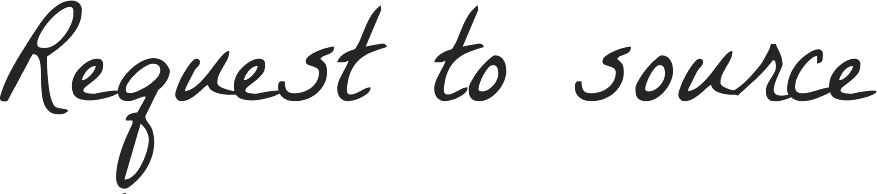
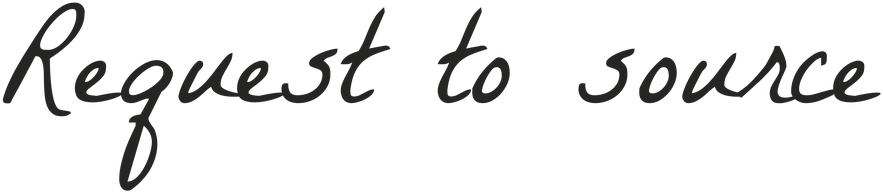
Envelope for Sell and Trade, burgundy seal, script clear of the line
Henry's notes: move the script up so it's not about to touch the line
below; same thing for Sell and Trade with their info; burgundy seal on
those, like the new iPhone colour.

- The script's font turned out to be on his Mac: La Belle Aurore, SIL Open
  Font License. All three lines are now set from it at one size and
  baseline, so "sell" and "trade" are real, not pieced together.
- Script sits 18 artboard units higher. Everything else still matches.
- Sell and Trade open the same envelope and card with their own title,
  sub line, WhatsApp text and Instagram DM option. Same fields as before.
- Their leads are byte-identical to their popups, and each falls back to
  its popup if the envelope can't load.
- Seal recoloured from the black one, so its embossing stays real. Apple
  publishes no hex for Burgundy, so it's matched by eye to their "deep
  wine-red with purple and brown undertones". Concierge stays black.

diff --git a/assets/envelope.js b/assets/envelope.js
@@ -1,4 +1,5 @@
-/* Concierge envelope. dbhEnvelope.open(prefill, {onClose}) plays it over the current page and lands
+/* Request envelope, used by Concierge, Sell and Trade. Each has its own script line, wording and seal
+   (KINDS below), with everything else shared. dbhEnvelope.open(prefill, {kind, onClose}) plays it over the current page and lands
    on the working card, about 1.75 seconds from start to finish. People tap this to send a request,
    so the animation must never feel like a wait: timing changes go in the constants below. The
    opening runs off one number, the flap's angle, and the light and shadows are worked out from it.
@@ -8,22 +9,29 @@
    lead looks the same to the server either way. To change the card's design, edit cardHtml() here
    and the CARD section of envelope.css. Field names must stay as they are. */
 (function () {
-  var B = '/assets/envelope/', FILES = ['body.webp', 'body-front.webp', 'lip.webp', 'flap-outside.webp', 'flap-inside.webp', 'seal.webp', 'request-to-source.webp', 'wordmark.svg'];
+  var B = '/assets/envelope/', FILES = ['body.webp', 'body-front.webp', 'lip.webp', 'flap-outside.webp', 'flap-inside.webp', 'wordmark.svg'];
+  // The script is La Belle Aurore, set as images by make-card-art.py. hw is its width on the card's artboard.
+  var KINDS = {
+    source: { seal: 'seal.webp', hand: 'request-to-source.webp', w: 883, track: 'BUY' },
+    sell: { seal: 'seal-burgundy.webp', hand: 'request-to-sell.webp', w: 753, track: 'SELL' },
+    trade: { seal: 'seal-burgundy.webp', hand: 'request-to-trade.webp', w: 828, track: 'TRADE' }
+  };
   var OPEN_AT = 310, OPEN_FOR = 840, END_ANGLE = 177, DRIFT = 148;
   var RISE_AT = 840, RISE_FOR = 620, GROW_AT = 1085, GROW_FOR = 665, FALL_AT = 1000, FALL_FOR = 600, END = GROW_AT + GROW_FOR;
   var SEAT_W = 494, SEAT_TOP = 8, SEAT_H = 350; // the card in the pocket, in artwork units. It really fits inside.
   var WIDE = '(min-width:820px) and (min-height:640px)'; // same as the media query in envelope.css
   // Light from above and in front of the page, as (down the screen, towards the viewer).
   var LIGHT_Y = -0.45, LIGHT_Z = 0.89;
-  var root, card, form, lastFocus, testClose, optsClose, pace = 1, running = [], landed = false, skipGuard = false, sent = true, lastKey = null, decoded;
+  var root, card, form, lastFocus, testClose, optsClose, pace = 1, running = [], landed = false, skipGuard = false, sent = true, lastKey = null, kind = 'source', decoded = {};
 
-  function preload() {
-    if (decoded) return decoded;
-    decoded = Promise.all(FILES.map(function (f) {
+  function preload(k) {
+    k = KINDS[k] ? k : 'source';
+    if (decoded[k]) return decoded[k];
+    decoded[k] = Promise.all(FILES.concat(KINDS[k].seal, KINDS[k].hand).map(function (f) {
       var i = new Image(); i.src = B + f;
       return i.decode ? i.decode().catch(function () {}) : Promise.resolve();
     }));
-    return decoded;
+    return decoded[k];
   }
 
   function flapShut() {
@@ -77,18 +85,19 @@
     return '<label class="ec__f ec__f--half"><span class="ec__l">' + label + '</span><select name="' + name + '" aria-label="' + label + '"' + (cls ? ' class="' + cls + '"' : '') + ' ' + (attrs || '') + '>' + options + '</select></label>';
   }
   function cardHtml(M, prefill) {
+    var K = KINDS[kind], cfg = M.FORMS[kind];
     // On a phone the model menu shares a row with the brand, so its hint has to be the short one.
     var modelHint = !matchMedia(WIDE).matches && matchMedia('(min-width:385px)').matches ? 'Model' : 'Model (select brand first)';
     return '<div class="ec__shadow"></div><div class="ec__in">' +
       '<img class="ec__mark" src="' + B + 'wordmark.svg" alt="Dialed by H" width="730" height="52">' +
       '<div class="ec__body">' +
-      '<h2 class="ec__title"><img class="ec__hand" src="' + B + 'request-to-source.webp" alt="Request to source" width="877" height="194"></h2>' +
-      '<p class="ec__sub">Tell me the piece. I\'ll text you back, usually within a few hours.</p>' +
+      '<h2 class="ec__title"><img class="ec__hand" style="--hw:' + (K.w / 2) + '" src="' + B + K.hand + '" alt="' + cfg.title + '" width="' + K.w + '" height="194"></h2>' +
+      '<p class="ec__sub">' + cfg.sub + '</p>' +
       '<form class="ec__form" novalidate><div class="ec__grid">' +
         field('name', 'Full name', 'Full name', 'type="text" required autocomplete="name"') +
         field('email', 'Email', 'Email', 'type="email" required autocomplete="email" inputmode="email"') +
         field('phone', 'Mobile phone', 'Mobile phone', 'type="tel" required autocomplete="tel" inputmode="tel"', 'ec__f--half') +
-        menu('preferred', 'Preferred contact', '', '<option value="">Preferred contact</option><option>WhatsApp</option><option>iMessage</option><option>Email</option>', 'required') +
+        menu('preferred', 'Preferred contact', '', '<option value="">Preferred contact</option><option>WhatsApp</option><option>iMessage</option><option>Email</option>' + (kind === 'source' ? '' : '<option>Instagram DM</option>'), 'required') +
         field('location', 'Where are you based?', 'Where are you based? (city / state)', 'type="text" required autocomplete="address-level2"') +
         menu('brand', 'Brand', 'js-brand', '<option value="">Brand</option>' + M.brandOptions(), 'required') +
         menu('model', 'Model', 'js-model', '<option value="">' + modelHint + '</option>', 'disabled data-empty="' + modelHint + '" data-ready="Model"') +
@@ -98,7 +107,7 @@
       '<label class="ec__check"><input type="checkbox" name="textok"><span>OK to text me about this request</span></label>' +
       '<input type="text" name="website" class="ec__hp" tabindex="-1" autocomplete="off" aria-hidden="true">' +
       '<button type="submit" class="ec__send">Send</button>' +
-      '<p class="ec__wa">Or message me on <a href="' + M.waHref(prefill) + '" target="_blank" rel="noopener">WhatsApp</a></p>' +
+      '<p class="ec__wa">Or message me on <a href="' + M.waHref(prefill, kind) + '" target="_blank" rel="noopener">WhatsApp</a></p>' +
       '<p class="ec__err js-err" role="alert">Please fill in your name, email, phone, preferred contact, location and brand.</p>' +
       '</form></div></div>' +
       '<button type="button" class="env__close" aria-label="Close"><svg viewBox="0 0 13 13" fill="none" stroke="currentColor" stroke-width="1" aria-hidden="true"><path d="M1 1l11 11M12 1L1 12"/></svg></button>';
@@ -124,13 +133,13 @@
       '<a class="ec__send" href="' + M.instagram + '" target="_blank" rel="noopener">Follow @dialedbyh</a></div>';
   }
   function ensureCard(prefill) {
-    var M = window.DBHModals, key = JSON.stringify(prefill || {});
+    var M = window.DBHModals, key = kind + JSON.stringify(prefill || {});
     if (card && !sent && key === lastKey) return; // closing and reopening keeps what they've typed
     var scroll = root.querySelector('.env__scroll');
     scroll.innerHTML = '<article class="ec">' + cardHtml(M, prefill) + '</article>';
     card = scroll.firstChild; form = card.querySelector('form'); sent = false; lastKey = key;
     placeLocation();
-    M.wireForm(form, 'source', M.FORMS.source, prefill, function () { showSent(M); card.querySelector('.ec__in').scrollTop = 0; }, close);
+    M.wireForm(form, kind, M.FORMS[kind], prefill, function () { showSent(M); card.querySelector('.ec__in').scrollTop = 0; }, close);
     var refresh = function () {
       syncLabels();
       [].forEach.call(form.querySelectorAll('.is-missing'), function (f) { var c = f.querySelector('input,select'); if (c && c.value) f.classList.remove('is-missing'); });
@@ -142,7 +151,7 @@
       [].forEach.call(form.querySelectorAll('[required]'), function (c) { if (!c.value.trim()) c.closest('.ec__f').classList.add('is-missing'); });
     });
     syncLabels();
-    if (window.dbhTracking) window.dbhTracking.open(form, 'BUY');
+    if (window.dbhTracking) window.dbhTracking.open(form, KINDS[kind].track);
   }
 
   // Timing curves.
@@ -261,9 +270,12 @@
     if (root && !root.hidden) return Promise.resolve();
     root = root || build();
     optsClose = opts && opts.onClose;
+    kind = opts && KINDS[opts.kind] ? opts.kind : 'source';
+    root.setAttribute('aria-label', window.DBHModals.FORMS[kind].title);
+    [].forEach.call(root.querySelectorAll('.env__seal,.env__seal-back'), function (s) { s.src = B + KINDS[kind].seal; });
     lastFocus = document.activeElement;
     // On a slow connection don't make anyone wait or watch half an envelope: go straight to the form.
-    return Promise.race([preload().then(function () { return true; }), new Promise(function (r) { setTimeout(r, 450, false); })]).then(function (ready) {
+    return Promise.race([preload(kind).then(function () { return true; }), new Promise(function (r) { setTimeout(r, 450, false); })]).then(function (ready) {
       var still = !ready || matchMedia('(prefers-reduced-motion: reduce)').matches;
       ensureCard(prefill);
       root.style.setProperty('--pace', pace);

diff --git a/assets/modals.js b/assets/modals.js
@@ -5,8 +5,9 @@
    on the page's own stylesheet.
    Submits to /api/submit-form; if that fails, falls back to a prefilled
    WhatsApp message so no request is ever lost.
-   Concierge (source) opens the envelope in assets/envelope.js, which loads on
-   demand and uses the same wireForm. If it can't load, the popup opens instead. */
+   Concierge, Sell and Trade open the envelope in assets/envelope.js, which
+   loads on demand and uses the same wireForm. If it can't load, the popup opens
+   instead. */
 (function () {
   var WA = 'https://wa.me/19146211848';
   var IG = 'https://www.instagram.com/dialedbyh';
@@ -171,10 +172,13 @@
     select.value = value;
   }
 
-  function waHref(prefill) {
+  function waHref(prefill, kind) {
     var piece = prefill && [prefill.brand, prefill.model].filter(Boolean).join(' ');
     if (piece && prefill.ref) piece += ' (Ref. ' + prefill.ref + ')';
-    var text = piece ? "Hi Henry, I'm interested in the " + piece + '.' : "Hi Henry, I'm looking to source a watch.";
+    var verb = kind === 'sell' || kind === 'trade' ? kind : '';
+    var text = piece
+      ? (verb ? "Hi Henry, I'd like to " + verb + ' my ' + piece + '.' : "Hi Henry, I'm interested in the " + piece + '.')
+      : "Hi Henry, I'm looking to " + (verb || 'source') + ' a watch.';
     return WA + '?text=' + encodeURIComponent(text);
   }
   function brandOptions() {
@@ -281,12 +285,12 @@
   }
 
   function open(kind, prefill) {
-    if (kind !== 'source') return popup(kind, prefill);
+    if (!FORMS[kind]) return popup(kind, prefill);
     close();
     return loadEnvelope().then(function () {
-      setUrl('source');
-      return window.dbhEnvelope.open(prefill, { onClose: restoreUrl });
-    }).catch(function () { restoreUrl(); popup('source', prefill); });
+      setUrl(kind);
+      return window.dbhEnvelope.open(prefill, { kind: kind, onClose: restoreUrl });
+    }).catch(function () { restoreUrl(); popup(kind, prefill); });
   }
 
   function popup(kind, prefill) {
@@ -367,21 +371,23 @@
 
   // Get the envelope ready before anyone taps, so it opens without a wait: once the page has finished
   // and gone quiet, or the moment someone reaches for a Concierge link, whichever comes first.
-  var readied = false;
-  function ready() {
-    if (readied) return;
-    readied = true;
-    loadEnvelope().then(function () { window.dbhEnvelope.preload(); }).catch(function () {});
+  var readied = {};
+  function ready(kind) {
+    if (readied[kind]) return;
+    readied[kind] = true;
+    loadEnvelope().then(function () { window.dbhEnvelope.preload(kind); }).catch(function () {});
   }
   ['pointerover', 'touchstart', 'focusin'].forEach(function (ev) {
     document.addEventListener(ev, function (e) {
-      if (e.target.closest && e.target.closest('[data-modal="source"]')) ready();
+      var t = e.target.closest && e.target.closest('[data-modal]');
+      if (t && FORMS[t.dataset.modal]) ready(t.dataset.modal);
     }, { passive: true });
   });
   addEventListener('load', function () {
     var net = navigator.connection;
     if (net && (net.saveData || /2g/.test(net.effectiveType || ''))) return;
-    if (window.requestIdleCallback) requestIdleCallback(ready, { timeout: 4000 }); else setTimeout(ready, 1500);
+    var soon = function () { ready('source'); };
+    if (window.requestIdleCallback) requestIdleCallback(soon, { timeout: 4000 }); else setTimeout(soon, 1500);
   });
 
   // Own URL for each form: /source, /sell and /trade load the homepage with that

diff --git a/assets/envelope.css b/assets/envelope.css
@@ -102,8 +102,8 @@
 .env__close:focus-visible{outline:1px solid currentColor;outline-offset:-8px}
 .ec__mark{display:block;width:76%;height:auto;margin:0 auto}
 .ec__title{margin:calc(var(--gap)*.7) 0 0;font-weight:400;font-size:0;line-height:0}
-.ec__hand{display:block;width:58%;height:auto;margin:0 auto}
-.ec__sub{margin:2px auto 0;max-width:30ch;font-family:var(--works);font-weight:400;font-size:16px;line-height:1.22;letter-spacing:0;text-align:center;text-wrap:balance}
+.ec__hand{display:block;width:calc(58%*var(--hw)/442);height:auto;margin:0 auto}
+.ec__sub{margin:8px auto 0;max-width:30ch;font-family:var(--works);font-weight:400;font-size:16px;line-height:1.22;letter-spacing:0;text-align:center;text-wrap:balance}
 .ec__form{margin:calc(var(--gap)*.4) 0 0}
 .ec__grid{display:grid;grid-template-columns:minmax(0,1fr) minmax(0,1fr);column-gap:14px}
 .ec__f{position:relative;display:block;grid-column:1/-1;height:var(--row)}
@@ -149,9 +149,10 @@
   .ec__in,.env.is-landed .ec__in{padding:0;overflow:hidden}
   .env__close{top:0;right:0}
   .ec__mark{width:calc(var(--c)*1000);margin:calc(var(--c)*50) auto 0}
-  .ec__title{margin:calc(var(--c)*52.6) 0 0}
-  .ec__hand{width:calc(var(--c)*438.5);margin:0 auto;position:relative;left:calc(var(--c)*1.75)}
-  .ec__sub{max-width:none;margin:calc(var(--c)*-6.5) 0 0;font-size:calc(var(--c)*26);line-height:1.25;text-wrap:nowrap}
+  /* The script sits 18 units higher than the artboard draws it, Henry's call, so the q's tail clears the line below. */
+  .ec__title{margin:calc(var(--c)*33.6) 0 0}
+  .ec__hand{width:calc(var(--c)*var(--hw));margin:0 auto;position:relative;left:calc(var(--c)*1.25)}
+  .ec__sub{max-width:none;margin:calc(var(--c)*12.5) 0 0;font-size:calc(var(--c)*26);line-height:1.25;text-wrap:nowrap}
   .ec__form{margin:calc(var(--c)*10.75) calc(var(--c)*180) 0}
   .ec__grid{column-gap:calc(var(--c)*70)}
   .ec__f,.ec__f--half{grid-column:auto;height:calc(var(--c)*110)}
